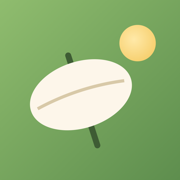
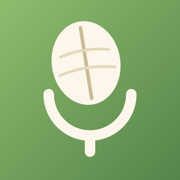
2.1 — transcriptie-fix en de ziel-ronde
- iOS-fix: voorlopige (interim) spraaktekst telt mee bij het stoppen,
  plus vangnet met de live getoonde tekst — transcript komt nu altijd
  aan op het bewaarscherm
- Bewaarscherm/bewerken zonder database-gevoel: geen labels, geen
  tijdveld (vandaag = nu), titel met hairline, tekst in serif,
  categorie als vier gekleurde iconen, datum als stil chipje
- Blad-scherm toont de categorie als klein gekleurd icoon
- Vasthouden op een boom toont nu een momentje ('…' en n andere)
  in plaats van statistiek
- Zoekchips dragen hun categoriekleur, resultaten nette regels
- Decorbos aan de horizon + grasjes: de wereld voelt bewoond,
  ook als je eigen bos nog jong is
- Nieuw app-icoon: het blaadje ís de microfoon

Changed region(s): [[0.1667, 0.1111, 0.8889, 0.8889]]

diff --git a/js/app.js b/js/app.js
@@ -209,8 +209,15 @@
         pressTimer = setTimeout(() => {
           pressTimer = null;
           const yr = S.years.find(y => y.key === key);
-          showPeek(e.clientX, e.clientY, yr.label, yr.sub);
-          setTimeout(hidePeek, 1500);
+          // Even vasthouden = een momentje proeven, geen statistiek
+          if (yr.memories.length) {
+            const top = [...yr.memories].reverse().find(m => m.isFavorite) || yr.memories[yr.memories.length - 1];
+            showPeek(e.clientX, e.clientY, `“${top.title}”`,
+              yr.memories.length > 1 ? `en ${yr.memories.length - 1} andere momentjes` : yr.label);
+          } else {
+            showPeek(e.clientX, e.clientY, yr.label, 'nog geen momentjes');
+          }
+          setTimeout(hidePeek, 1600);
         }, 420);
       });
       g.addEventListener('pointerup', (e) => {
@@ -272,9 +279,11 @@
     $('#blad-quote').textContent = mem.text ? `“${mem.text}”` : `“${mem.title}”`;
     const child = activeChild();
     const age = ageAt(child, mem.date);
-    $('#blad-meta').textContent =
+    const cat = catById(mem.categoryId) || {};
+    $('#blad-meta').innerHTML =
+      `<span class="blad-cat" style="--accent:${cat.color || '#A6957A'}" title="${esc(cat.name || '')}">${svg(CAT_ICONS[cat.icon] || 'i-leafcat')}</span>` +
       `${new Date(mem.date).getDate()} ${MONTHS[new Date(mem.date).getMonth()]} ${new Date(mem.date).getFullYear()}` +
-      (age !== null ? ` · ${child.name} was ${Math.max(0, age)}` : '');
+      (age !== null ? ` · ${esc(child.name)} was ${Math.max(0, age)}` : '');
     $('#blad-audio').hidden = !mem.audioId;
     if (mem.audioId) {
       $('#blad-progress').style.width = '0%';
@@ -381,6 +390,9 @@
 
   // ============ Opnemen (zon) ============
   let rec = null, speech = null, recStarting = false;
+  // Vangnet: wat er live op het scherm stond, voor het geval de
+  // spraak-API bij het stoppen tóch niets teruggeeft (iOS-gril)
+  let lastLiveText = '';
 
   async function startRecording() {
     if (rec || recStarting) return;
@@ -422,9 +434,11 @@
       }
     };
 
+    lastLiveText = '';
     speech = Speech.create('nl-NL');
     if (speech) {
       speech.onUpdate = (final, interim) => {
+        lastLiveText = `${final} ${interim}`.trim();
         $('#transcript-placeholder').hidden = !!(final || interim);
         $('#transcript-text').innerHTML = `${esc(final)} <span class="interim">${esc(interim)}</span>`;
         const box = $('#live-transcript');
@@ -441,7 +455,7 @@
     const theRec = rec; rec = null;
     const sp = speech; speech = null;
     if (sp) { if (save) sp.stop(); else sp.abort(); }
-    const transcript = sp ? sp.text : '';
+    const transcript = (sp && sp.text) || lastLiveText;
     $('#record-overlay').hidden = true;
     if (!save) { theRec.cancel(); return; }
     const result = await theRec.stop();
@@ -520,28 +534,29 @@
   }
   $('#sheet-backdrop').addEventListener('click', () => { if (!sheetLocked) closeSheet(); });
 
+  /* Categorie kiezen: vier gekleurde iconen, geen woorden */
   function catSelectHTML(selectedId) {
-    return `<div class="cat-select" id="cat-select">
+    return `<div class="cat-rond" id="cat-select">
       ${S.categories.map(c => `
-        <button type="button" class="cat-option ${c.id === selectedId ? 'active' : ''}" data-cat="${c.id}" style="--accent:${c.color}">
-          <span class="cat-icoon">${svg(CAT_ICONS[c.icon] || 'i-leafcat')}</span>${esc(c.name)}
+        <button type="button" class="cat-knop ${c.id === selectedId ? 'active' : ''}" data-cat="${c.id}" style="--accent:${c.color}" aria-label="${esc(c.name)}">
+          ${svg(CAT_ICONS[c.icon] || 'i-leafcat')}
         </button>`).join('')}
     </div>`;
   }
   function bindCatSelect() {
-    $('#cat-select').querySelectorAll('.cat-option').forEach(b => b.addEventListener('click', () => {
-      $('#cat-select').querySelectorAll('.cat-option').forEach(x => x.classList.remove('active'));
+    $('#cat-select').querySelectorAll('.cat-knop').forEach(b => b.addEventListener('click', () => {
+      $('#cat-select').querySelectorAll('.cat-knop').forEach(x => x.classList.remove('active'));
       b.classList.add('active');
     }));
   }
-  const selectedCat = () => $('#cat-select .cat-option.active')?.dataset.cat || S.categories[0]?.id;
+  const selectedCat = () => $('#cat-select .cat-knop.active')?.dataset.cat || S.categories[0]?.id;
 
   function childSelectHTML(selectedId) {
     if (S.children.length < 2) return '';
-    return `<div class="field"><label>Voor wie</label><div class="chip-row" id="child-select">
+    return `<div class="chip-row" id="child-select" style="justify-content:center;margin:14px 0 0">
       ${S.children.map(c => `
         <button type="button" class="filter-chip ${c.id === selectedId ? 'active' : ''}" data-child="${c.id}" style="--accent:${c.color}">${esc(c.name)}</button>`).join('')}
-    </div></div>`;
+    </div>`;
   }
   function bindChildSelect() {
     const box = $('#child-select');
@@ -598,16 +613,11 @@
         <div class="audio-progress"><i></i></div>
         <span class="audio-time">${fmtTime(recording.duration || 0)}</span>
       </div>
-      <div class="field"><label>Titel</label><input type="text" id="save-title" value="${esc(title)}"></div>
-      <div class="field"><label>Wat werd er gezegd of gedaan?</label>
-        <textarea id="save-text" placeholder="${recording.transcript ? '' : 'Luister terug en typ wat er gebeurde — de audio blijft er altijd bij.'}">${esc(recording.transcript)}</textarea>
-      </div>
+      <input type="text" class="veld-titel" id="save-title" value="${esc(title)}" placeholder="Titel">
+      <textarea class="veld-tekst" id="save-text" placeholder="Wat werd er gezegd of gedaan?">${esc(recording.transcript)}</textarea>
       ${childSelectHTML(S.activeChildId)}
-      <div class="field"><label>Categorie</label>${catSelectHTML(S.categories[0]?.id)}</div>
-      <div class="field-row">
-        <div class="field"><label>Datum</label><input type="date" id="save-date" value="${date}"></div>
-        <div class="field"><label>Tijd</label><input type="time" id="save-time" value="${time}"></div>
-      </div>
+      ${catSelectHTML(S.categories[0]?.id)}
+      <div class="datum-rij"><input type="date" id="save-date" class="datum-chip" value="${date}"></div>
       <div class="btn-stack">
         <button class="btn" id="save-confirm">${svg('i-check')}Bewaren</button>
         <button class="btn btn-danger" id="save-discard">Opname weggooien</button>
@@ -624,7 +634,9 @@
       const id = DB.uuid();
       const audioId = 'audio-' + id;
       await DB.put('audio', { id: audioId, blob: recording.blob, mime: recording.mime });
-      const when = new Date(`${$('#save-date').value}T${$('#save-time').value || '12:00'}`);
+      // Tijdstip is geen invulveld: vandaag = nu, een eerdere datum = midden op de dag
+      const picked = $('#save-date').value;
+      const when = picked === date ? new Date() : new Date(`${picked}T12:00`);
       const memory = {
         id,
         childId: selectedChild(),
@@ -685,14 +697,11 @@
     const { date, time } = dateInputValues(new Date(m.date));
     openSheet(`
       <h2 class="sheet-title">Momentje bewerken</h2>
-      <div class="field"><label>Titel</label><input type="text" id="edit-title" value="${esc(m.title)}"></div>
-      <div class="field"><label>Tekst</label><textarea id="edit-text">${esc(m.text || '')}</textarea></div>
+      <input type="text" class="veld-titel" id="edit-title" value="${esc(m.title)}" placeholder="Titel">
+      <textarea class="veld-tekst" id="edit-text" placeholder="Wat werd er gezegd of gedaan?">${esc(m.text || '')}</textarea>
       ${childSelectHTML(m.childId)}
-      <div class="field"><label>Categorie</label>${catSelectHTML(m.categoryId)}</div>
-      <div class="field-row">
-        <div class="field"><label>Datum</label><input type="date" id="edit-date" value="${date}"></div>
-        <div class="field"><label>Tijd</label><input type="time" id="edit-time" value="${time}"></div>
-      </div>
+      ${catSelectHTML(m.categoryId)}
+      <div class="datum-rij"><input type="date" id="edit-date" class="datum-chip" value="${date}"></div>
       <div class="btn-stack">
         <button class="btn" id="edit-save">${svg('i-check')}Opslaan</button>
         <button class="btn btn-secondary" id="edit-cancel">Annuleren</button>
@@ -705,7 +714,8 @@
       m.text = $('#edit-text').value.trim();
       m.categoryId = selectedCat();
       m.childId = selectedChild() || m.childId;
-      const when = new Date(`${$('#edit-date').value}T${$('#edit-time').value || '12:00'}`);
+      // Datum aanpasbaar, het oorspronkelijke tijdstip reist stilletjes mee
+      const when = new Date(`${$('#edit-date').value}T${time}`);
       if (!isNaN(when)) m.date = when.toISOString();
       await DB.put('memories', m);
       await loadAll();
@@ -929,7 +939,7 @@
         <p class="settings-label">Over</p>
         <div class="settings-card">
           <div class="settings-row" style="cursor:default">
-            ${svg('i-leafcat')}<span class="grow">Momentjes — Het bos<span class="sub">Versie 2.0 · elk blaadje één herinnering</span></span>
+            ${svg('i-leafcat')}<span class="grow">Momentjes — Het bos<span class="sub">Versie 2.1 · elk blaadje één herinnering</span></span>
           </div>
         </div>
       </div>

diff --git a/css/style.css b/css/style.css
@@ -194,7 +194,13 @@ input, textarea, select { font-family: inherit; font-size: 16px; color: var(--in
   font-style: italic; color: #4A4030; text-align: center; max-width: 300px;
   overflow-y: auto; max-height: 34dvh;
 }
-#blad-meta { margin-top: 18px; font-size: 12.5px; color: var(--inkt-vaag); }
+#blad-meta { margin-top: 18px; font-size: 12.5px; color: var(--inkt-vaag); display: flex; align-items: center; gap: 7px; }
+.blad-cat {
+  width: 22px; height: 22px; border-radius: 50%;
+  background: var(--accent); color: #fff;
+  display: inline-flex; align-items: center; justify-content: center;
+}
+.blad-cat .icon { width: 12px; height: 12px; }
 .blad-audio {
   display: flex; align-items: center; gap: 10px;
   width: 210px; margin-top: 16px;
@@ -336,32 +342,65 @@ input, textarea, select { font-family: inherit; font-size: 16px; color: var(--in
 .field input[type="date"]::-webkit-date-and-time-value,
 .field input[type="time"]::-webkit-date-and-time-value { text-align: left; margin: 0; }
 
-.chip-row { display: flex; gap: 8px; flex-wrap: wrap; }
+.chip-row { display: flex; gap: 8px; flex-wrap: wrap; margin-bottom: 14px; }
 .filter-chip {
   display: inline-flex; align-items: center; gap: 6px;
   padding: 8px 14px; border-radius: 100px;
-  background: #fff; border: 1.5px solid var(--lijn);
-  font-size: 13.5px; font-weight: 600; color: var(--inkt-zacht);
+  font-size: 13.5px; font-weight: 600;
+  color: var(--accent, var(--inkt-zacht));
+  background: color-mix(in srgb, var(--accent, #8D7C60) 9%, #fff);
+  border: 1.5px solid color-mix(in srgb, var(--accent, #8D7C60) 25%, transparent);
   transition: all 0.15s ease;
 }
 .filter-chip .icon { width: 14px; height: 14px; }
 .filter-chip.active { color: #fff; background: var(--accent, var(--inkt)); border-color: transparent; }
 
-.cat-select { display: grid; grid-template-columns: 1fr 1fr; gap: 8px; }
-.cat-option {
-  display: flex; align-items: center; gap: 9px;
-  background: #fff; border-radius: 13px;
-  padding: 11px 12px; font-size: 14px; font-weight: 600;
-  border: 1.5px solid var(--lijn);
-  transition: all 0.15s ease;
+/* Invulvelden zonder database-gevoel */
+.veld-titel {
+  width: 100%; border: none; outline: none; background: none;
+  font-size: 20px; font-weight: 700; color: var(--inkt);
+  padding: 14px 2px 8px;
+  border-bottom: 1.5px solid var(--lijn);
 }
-.cat-option .cat-icoon {
-  width: 30px; height: 30px; border-radius: 9px;
-  display: flex; align-items: center; justify-content: center; color: #fff;
-  background: var(--accent);
+.veld-titel:focus { border-bottom-color: var(--zon-2); }
+.veld-titel::placeholder { color: var(--inkt-vaag); font-weight: 600; }
+.veld-tekst {
+  width: 100%; border: none; outline: none;
+  background: rgba(84, 69, 47, 0.045);
+  border-radius: 14px;
+  font-family: var(--serif); font-style: italic;
+  font-size: 16.5px; line-height: 1.6; color: #4A4030;
+  padding: 13px 15px; margin: 14px 0 4px;
+  min-height: 96px; resize: vertical;
 }
-.cat-option .cat-icoon .icon { width: 15px; height: 15px; }
-.cat-option.active { border-color: var(--accent); background: color-mix(in srgb, var(--accent) 8%, white); }
+.veld-tekst::placeholder { color: var(--inkt-vaag); }
+
+/* Categorie: vier gekleurde iconen */
+.cat-rond { display: flex; gap: 16px; justify-content: center; margin: 16px 0 4px; }
+.cat-knop {
+  width: 52px; height: 52px; border-radius: 50%;
+  background: color-mix(in srgb, var(--accent) 14%, #fff);
+  color: var(--accent);
+  display: flex; align-items: center; justify-content: center;
+  transition: all 0.18s ease;
+}
+.cat-knop .icon { width: 22px; height: 22px; }
+.cat-knop.active { background: var(--accent); color: #fff; transform: scale(1.12); box-shadow: 0 5px 14px color-mix(in srgb, var(--accent) 40%, transparent); }
+
+/* Datum: één stil chipje, geen formulierveld */
+.datum-rij { display: flex; justify-content: center; margin: 12px 0 2px; }
+input.datum-chip {
+  -webkit-appearance: none; appearance: none;
+  border: none; outline: none;
+  background: rgba(84, 69, 47, 0.06);
+  border-radius: 100px;
+  padding: 8px 18px; height: auto;
+  font-size: 14px; font-weight: 600; color: var(--inkt-zacht);
+  text-align: center; width: auto; min-width: 150px; max-width: 200px;
+  -webkit-text-fill-color: var(--inkt-zacht);
+}
+input.datum-chip::-webkit-date-and-time-value { text-align: center; margin: 0; }
+input.datum-chip::-webkit-calendar-picker-indicator { opacity: 0.4; }
 
 .audio-player {
   display: flex; align-items: center; gap: 12px;
@@ -431,8 +470,8 @@ input, textarea, select { font-family: inherit; font-size: 16px; color: var(--in
 }
 .zoek-blad { width: 26px; height: 18px; flex-shrink: 0; }
 .zoek-rij .grow { flex: 1; min-width: 0; }
-.zoek-titel { font-size: 15px; font-weight: 600; }
-.zoek-sub { font-size: 12px; color: var(--inkt-vaag); margin-top: 1px; }
+.zoek-titel { display: block; font-size: 15px; font-weight: 600; white-space: nowrap; overflow: hidden; text-overflow: ellipsis; }
+.zoek-sub { display: block; font-size: 12px; color: var(--inkt-vaag); margin-top: 1px; }
 .leeg-melding { text-align: center; padding: 26px 10px; color: var(--inkt-vaag); font-size: 14px; }
 
 /* ===== Dialoog & toast ===== */

diff --git a/index.html b/index.html
@@ -52,7 +52,22 @@
           <linearGradient id="heuvel2" x1="0" y1="0" x2="0" y2="1"><stop offset="0" stop-color="#C2B282"/><stop offset="1" stop-color="#B5A575"/></linearGradient>
         </defs>
         <path d="M0 655 Q 110 622 210 640 Q 320 658 420 630 L420 880 L0 880 Z" fill="url(#heuvel1)"/>
+        <!-- Het verre bos: decor dat de wereld bewoond maakt, ver en stil -->
+        <g id="decor-bos" opacity="0.5" aria-hidden="true">
+          <g transform="translate(28 646)"><path d="M0 0 V-34" stroke="#9A8F6E" stroke-width="4" stroke-linecap="round"/><ellipse cx="-8" cy="-32" rx="10" ry="7" fill="#AAB287"/><ellipse cx="9" cy="-40" rx="11" ry="8" fill="#B7BC90"/><ellipse cx="-2" cy="-48" rx="9" ry="7" fill="#A3AC80"/></g>
+          <g transform="translate(96 636)"><path d="M0 0 V-26" stroke="#9A8F6E" stroke-width="3.4" stroke-linecap="round"/><ellipse cx="-7" cy="-26" rx="9" ry="6" fill="#B7BC90"/><ellipse cx="7" cy="-32" rx="9" ry="7" fill="#C2BC8F"/></g>
+          <g transform="translate(178 646)"><path d="M0 0 V-40" stroke="#9A8F6E" stroke-width="4" stroke-linecap="round"/><ellipse cx="-9" cy="-36" rx="11" ry="8" fill="#A3AC80"/><ellipse cx="10" cy="-44" rx="10" ry="7" fill="#B7BC90"/><ellipse cx="-1" cy="-52" rx="9" ry="7" fill="#AAB287"/></g>
+          <g transform="translate(258 652)"><path d="M0 0 V-24" stroke="#9A8F6E" stroke-width="3.2" stroke-linecap="round"/><ellipse cx="6" cy="-26" rx="9" ry="6" fill="#C2BC8F"/><ellipse cx="-6" cy="-30" rx="8" ry="6" fill="#AAB287"/></g>
+          <g transform="translate(342 638)"><path d="M0 0 V-32" stroke="#9A8F6E" stroke-width="3.6" stroke-linecap="round"/><ellipse cx="-8" cy="-30" rx="10" ry="7" fill="#B7BC90"/><ellipse cx="8" cy="-38" rx="10" ry="7" fill="#A3AC80"/></g>
+          <g transform="translate(402 648)"><path d="M0 0 V-22" stroke="#9A8F6E" stroke-width="3" stroke-linecap="round"/><ellipse cx="0" cy="-26" rx="9" ry="7" fill="#AAB287"/></g>
+        </g>
         <path d="M0 726 Q 140 700 280 716 Q 360 725 420 712 L420 880 L0 880 Z" fill="url(#heuvel2)" opacity="0.9"/>
+        <!-- Grasjes op de voorste heuvel -->
+        <g opacity="0.45" aria-hidden="true" stroke="#8F855F" stroke-width="2" stroke-linecap="round" fill="none">
+          <path d="M62 764 q 2 -10 6 -13 M68 764 q 1 -7 -2 -12"/>
+          <path d="M356 776 q 2 -10 6 -13 M362 776 q 1 -7 -2 -12"/>
+          <path d="M198 800 q 2 -9 5 -12 M204 800 q 0 -7 -3 -11"/>
+        </g>
       </svg>
     </div>
 

diff --git a/js/audio.js b/js/audio.js
@@ -133,6 +133,7 @@ const Speech = (() => {
     if (!SR) return null;
     let recog = null;
     let finalText = '';
+    let lastInterim = '';   // iOS maakt tekst soms pas definitief ná het stoppen
     let active = false;
     let restarts = 0;
     let lastStart = 0;
@@ -150,8 +151,9 @@ const Speech = (() => {
           if (r.isFinal) finalText += r[0].transcript + ' ';
           else interim += r[0].transcript;
         }
+        lastInterim = interim.trim();
         restarts = 0; // er komt echt iets binnen — teller resetten
-        if (handlers.onUpdate) handlers.onUpdate(finalText.trim(), interim.trim());
+        if (handlers.onUpdate) handlers.onUpdate(finalText.trim(), lastInterim);
       };
       recog.onerror = (e) => {
         if (e.error === 'not-allowed' || e.error === 'service-not-allowed' || e.error === 'audio-capture') {
@@ -184,7 +186,7 @@ const Speech = (() => {
       },
       stop() { active = false; try { recog && recog.stop(); } catch (_) {} },
       abort() { active = false; try { recog && recog.abort(); } catch (_) {} },
-      get text() { return finalText.trim(); },
+      get text() { return `${finalText} ${lastInterim}`.trim(); },
       set onUpdate(fn) { handlers.onUpdate = fn; },
       set onUnavailable(fn) { handlers.onUnavailable = fn; },
     };

diff --git a/sw.js b/sw.js
@@ -1,6 +1,6 @@
 /* Momentjes V2 — service worker: de app werkt ook zonder internet. */
 
-const CACHE = 'momentjes-bos-v1';
+const CACHE = 'momentjes-bos-v2';
 const ASSETS = [
   './', './index.html', './css/style.css',
   './js/db.js', './js/zip.js', './js/audio.js', './js/backup.js', './js/scene.js', './js/app.js',
